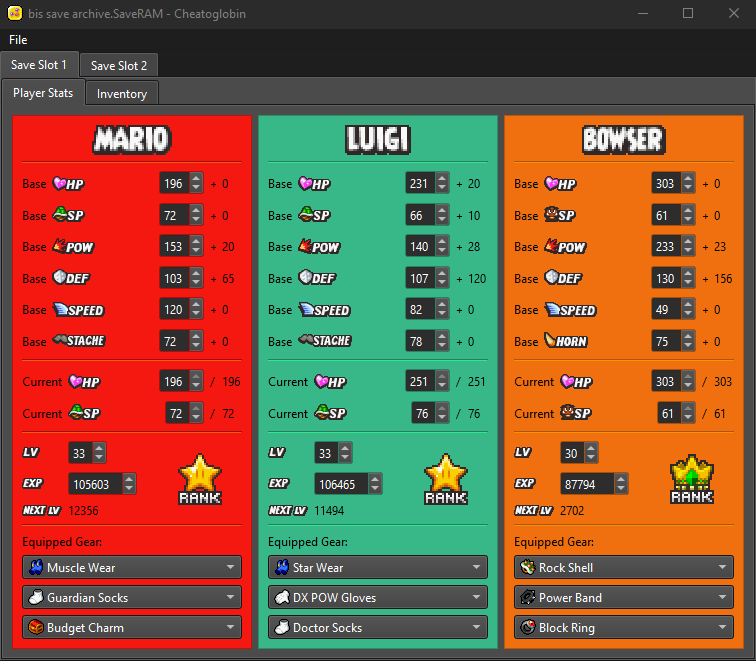
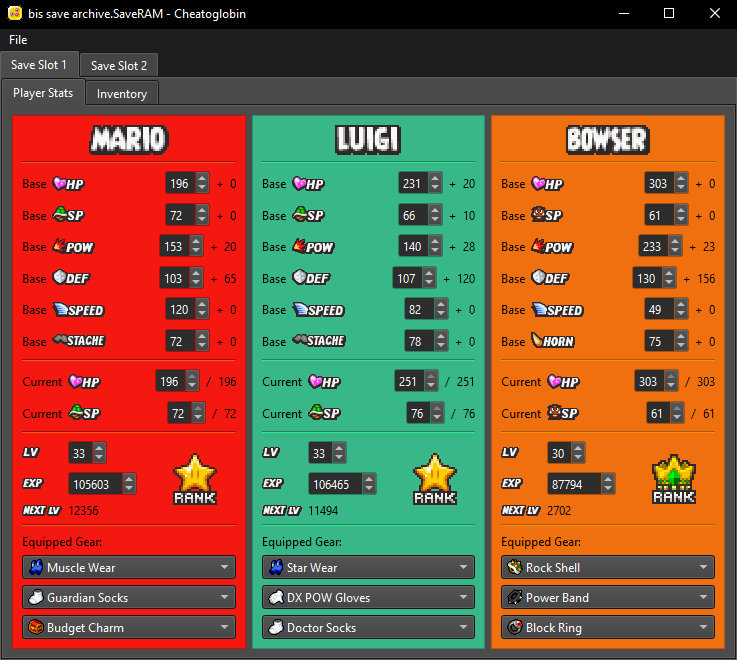
unhardcoded a bunch of text size for compatibility

diff --git a/cheatoglobin/player_stats_tab.py b/cheatoglobin/player_stats_tab.py
@@ -32,7 +32,7 @@ class PlayerStatsTab(QtWidgets.QWidget):
             player_stats = QtWidgets.QFrame()
             player_stats.setFrameShape(QtWidgets.QFrame.Shape.StyledPanel)
             player_stats.setFrameShadow(QtWidgets.QFrame.Shadow.Sunken)
-            player_stats.setFixedWidth(240)
+            #player_stats.setFixedWidth(240)
             player_stats_layout = QtWidgets.QVBoxLayout(player_stats)
 
             player_color = player_stats.palette()
@@ -66,7 +66,7 @@ class PlayerStatsTab(QtWidgets.QWidget):
                 base_stat_layout.setContentsMargins(0, 0, 0, 0)
 
                 base_stat_text = QtWidgets.QLabel("Base")
-                base_stat_text.setFixedWidth(24)
+                #base_stat_text.setFixedWidth(24)
                 base_stat_text.setStyleSheet("color: #000000;") 
                 base_stat_layout.addWidget(base_stat_text)
 
@@ -88,12 +88,12 @@ class PlayerStatsTab(QtWidgets.QWidget):
                 base_stat_layout.addWidget(base_stat_box)
 
                 base_stat_plus = QtWidgets.QLabel("+")
-                base_stat_plus.setFixedWidth(6)
+                #base_stat_plus.setFixedWidth(6)
                 base_stat_plus.setStyleSheet("color: #000000;") 
                 base_stat_layout.addWidget(base_stat_plus)
 
                 base_stat_additive = QtWidgets.QLabel(str(0))
-                base_stat_additive.setFixedWidth(20)
+                #base_stat_additive.setFixedWidth(20)
                 base_stat_additive.setStyleSheet("color: #000000;")
                 base_stat_layout.addWidget(base_stat_additive)
 
@@ -121,7 +121,7 @@ class PlayerStatsTab(QtWidgets.QWidget):
                 current_stat_layout.setContentsMargins(0, 0, 0, 0)
 
                 current_stat_text = QtWidgets.QLabel("Current")
-                current_stat_text.setFixedWidth(40)
+                #current_stat_text.setFixedWidth(40)
                 current_stat_text.setStyleSheet("color: #000000;")
                 current_stat_layout.addWidget(current_stat_text)
 
@@ -143,12 +143,12 @@ class PlayerStatsTab(QtWidgets.QWidget):
                 current_stat_layout.addWidget(current_stat_box)
 
                 current_stat_slash = QtWidgets.QLabel("/")
-                current_stat_slash.setFixedWidth(6)
+                #current_stat_slash.setFixedWidth(6)
                 current_stat_slash.setStyleSheet("color: #000000;")
                 current_stat_layout.addWidget(current_stat_slash)
 
                 current_stat_total = QtWidgets.QLabel(str(0))
-                current_stat_total.setFixedWidth(20)
+                #current_stat_total.setFixedWidth(20)
                 current_stat_total.setStyleSheet("color: #000000;")
                 current_stat_layout.addWidget(current_stat_total)
 

diff --git a/cheatoglobin/player_inventory_tab.py b/cheatoglobin/player_inventory_tab.py
@@ -35,7 +35,7 @@ class PlayerInventoryTab(QtWidgets.QScrollArea):
         coin_count_layout.addWidget(coin_count_icon)
 
         coin_count_label = QtWidgets.QLabel("Total Coins:")
-        coin_count_label.setFixedWidth(64)
+        #coin_count_label.setFixedWidth(64)
         coin_count_layout.addWidget(coin_count_label, alignment = QtCore.Qt.AlignmentFlag.AlignLeft)
         
         self.coin_count_box = QtWidgets.QSpinBox()
